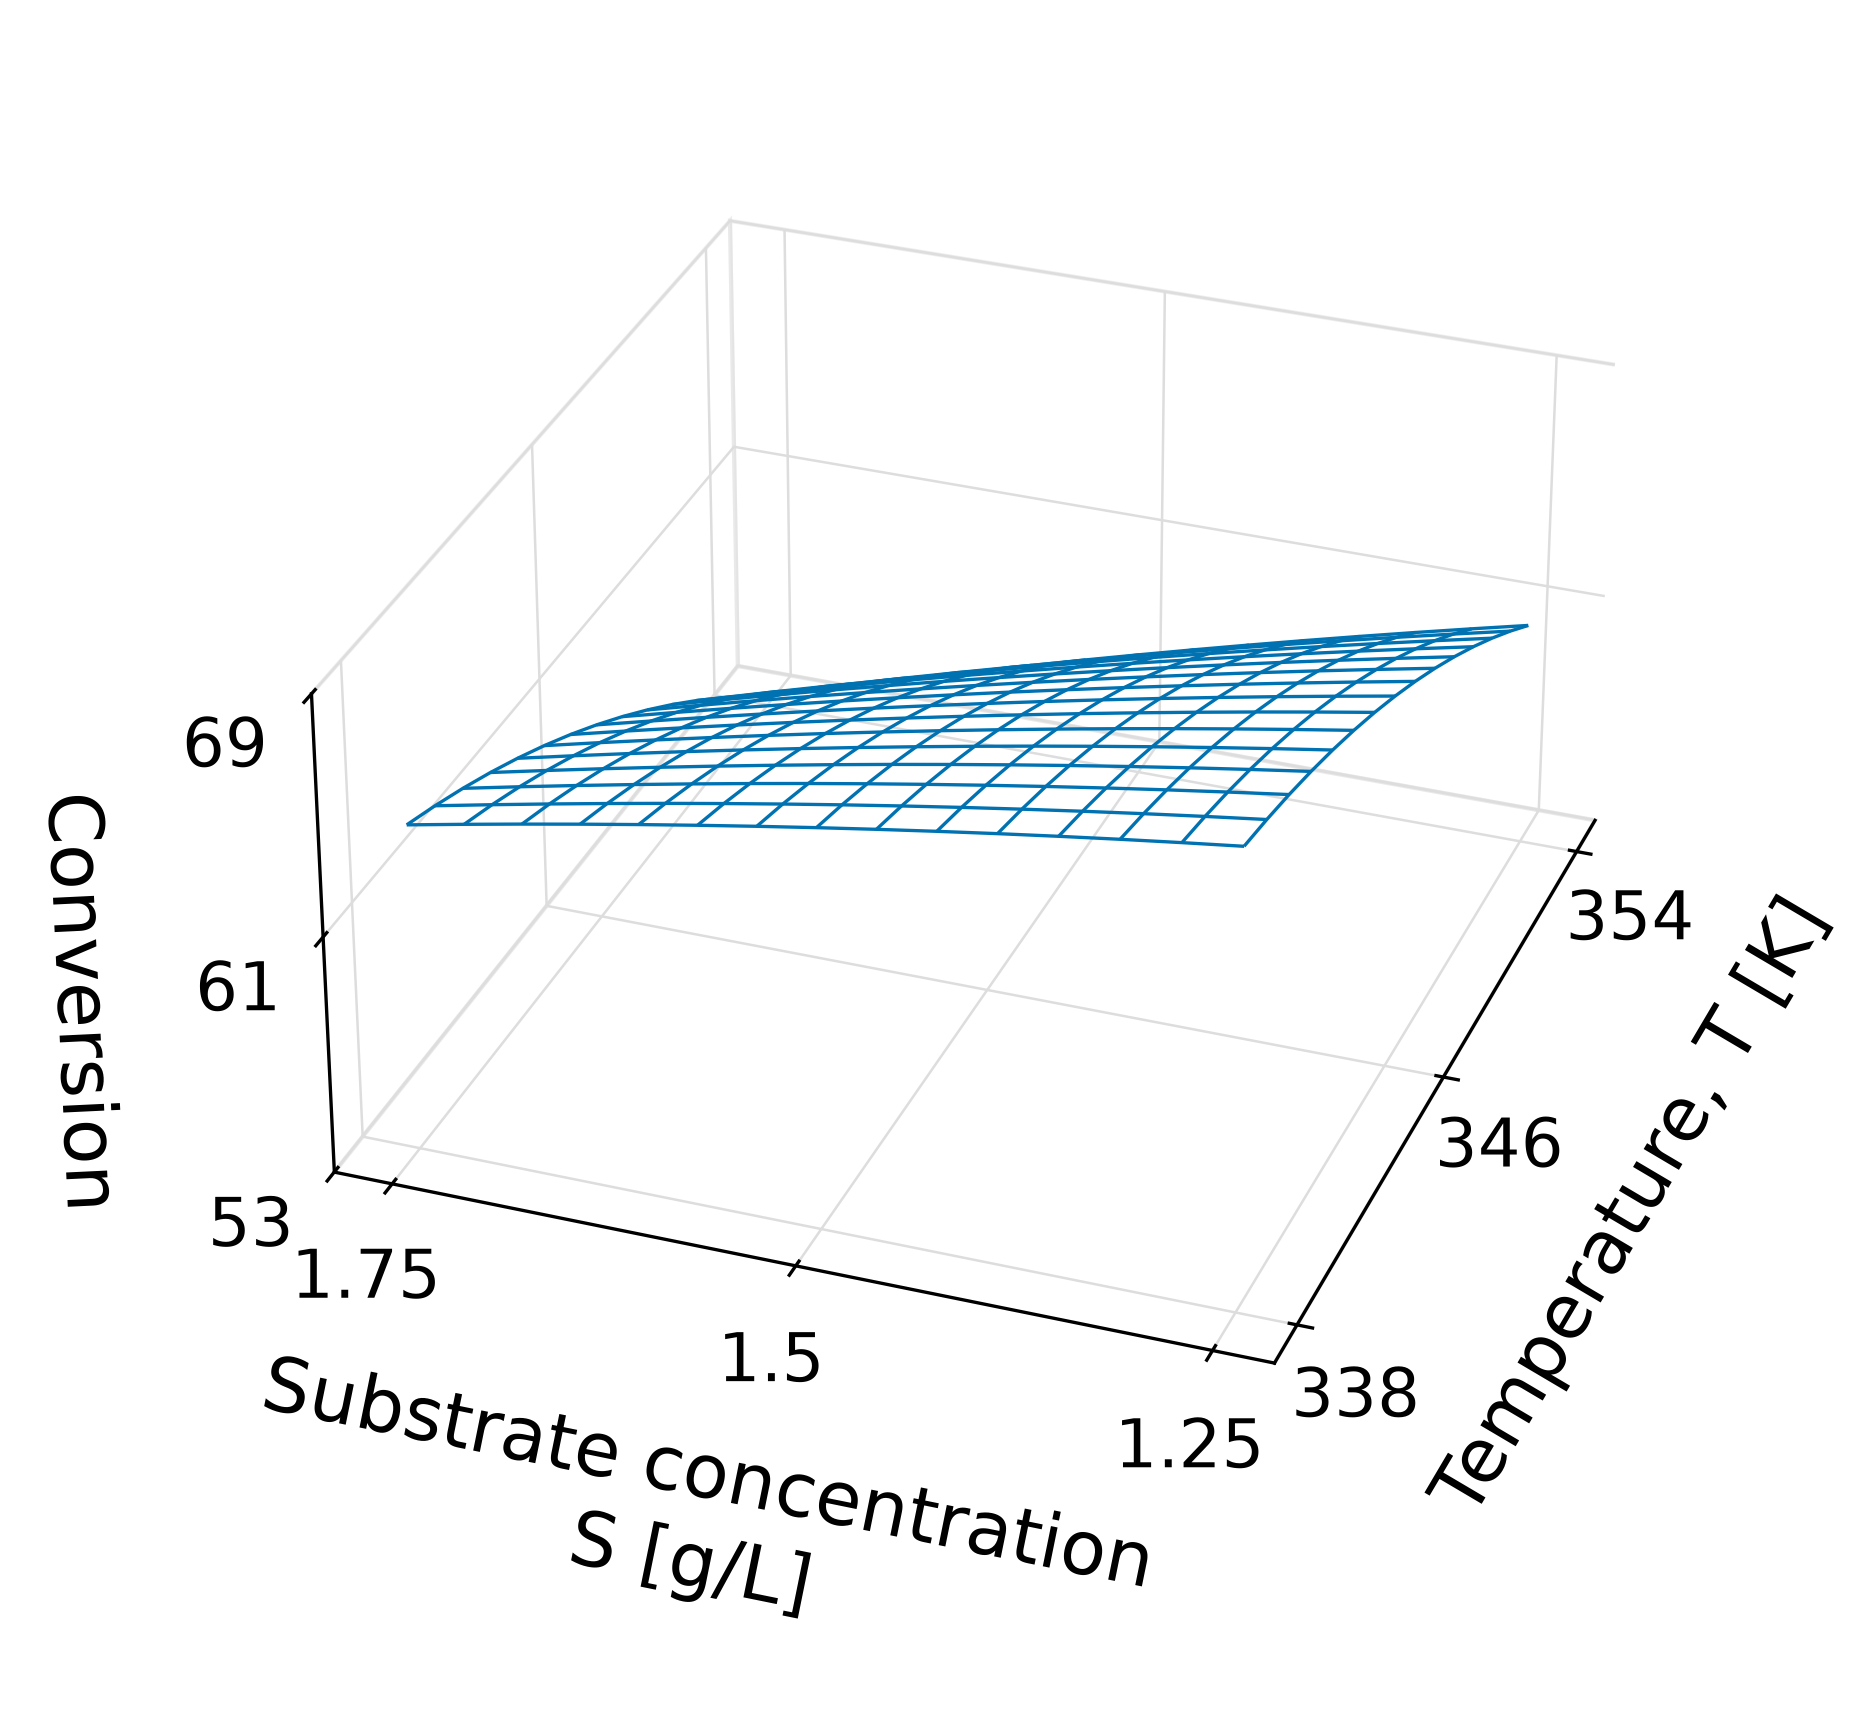
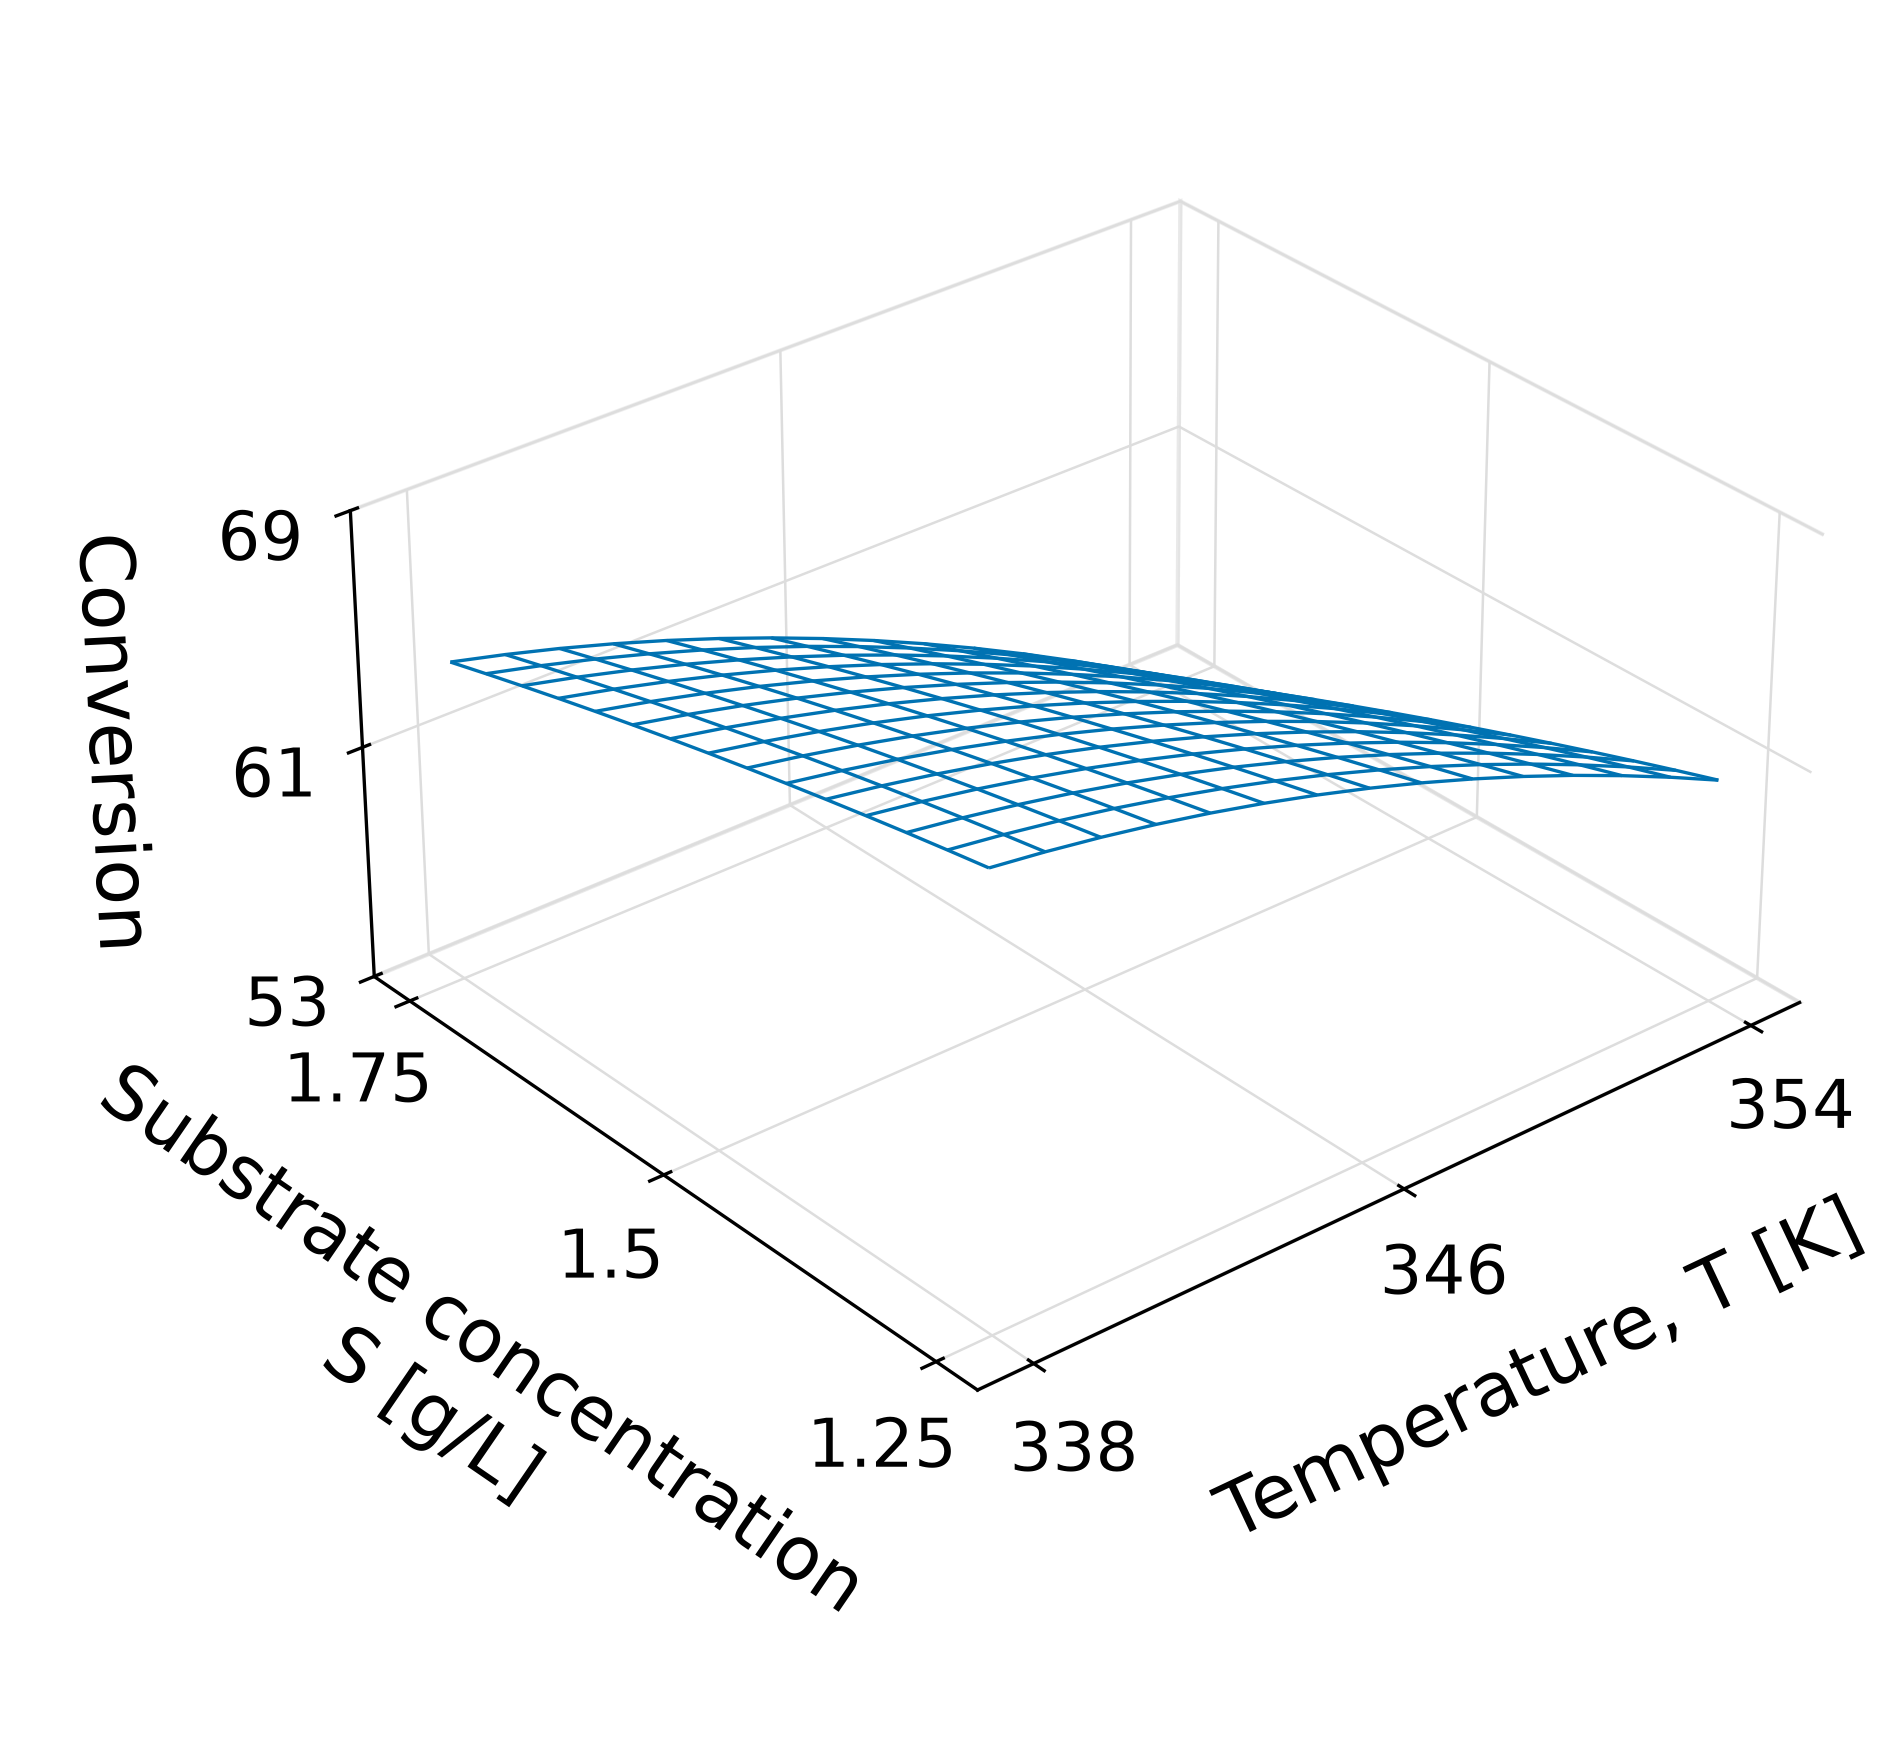
Put the two surface figures at lattice's actual default viewpoint
The azimuth was 30 degrees off, which is why the substrate axis ran
almost horizontally across the bottom and the temperature axis climbed
steeply, instead of the two receding evenly from a near corner as they
do in the originals.

Neither R script passes `screen`, so both take the lattice default,
`list(z = 40, x = -60)`: rotate about z by 40 degrees, then about x by
-60. Applying that to the camera axis gives the direction
(-0.557, -0.663, 0.500). matplotlib writes the same direction as
(cos(elev)cos(azim), cos(elev)sin(azim), sin(elev)), which solves to
elev = 30 and azim = -130. The elevation was already right; the azimuth
was not. The derivation is in the comment beside the constants so the
number is checkable rather than dialled in by eye.

Both figures take the same pair, since both R scripts use the default,
and `aspect = c(0.9, 0.5)` was already matched.

diff --git a/doe/doe_chapter_figures.py b/doe/doe_chapter_figures.py
@@ -86,10 +86,15 @@ GRID = "#DDDDDD"
 DPI = 300
 HERE = pathlib.Path(__file__).parent
 
-# Lattice's default viewpoint, expressed for matplotlib: the near corner is
-# (low temperature, low substrate), temperature runs to the lower right and
+# Lattice's default viewpoint, expressed for matplotlib. Neither R script
+# passes `screen`, so both use the lattice default, `list(z = 40, x = -60)`:
+# rotate about z by 40 degrees, then about x by -60. Applying those to the
+# camera axis gives the direction (-0.557, -0.663, 0.500), and matplotlib
+# writes that direction as (cos(elev)cos(azim), cos(elev)sin(azim),
+# sin(elev)), so elev = 30 and azim = -130. The near corner is then (low
+# temperature, low substrate), temperature runs to the lower right and
 # substrate to the lower left, with the response on the left-hand axis.
-ELEV, AZIM = 30, -160
+ELEV, AZIM = 30, -130
 # aspect = c(0.9, 0.5) in the R: y is 0.9 of x, z is half of x.
 BOX_ASPECT = (1.0, 0.9, 0.5)
 
